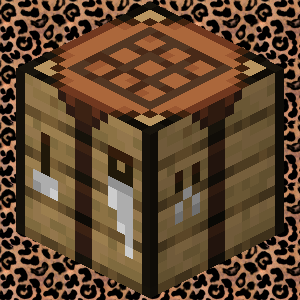
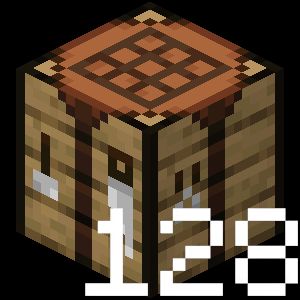
Implemented configuration functionality

Changed region(s): [[0.0, 0.0, 1.0, 1.0]]

diff --git a/src/client/java/org/apelsin/predictablecrafting/client/modmenu/ModMenuImplementation.java b/src/client/java/org/apelsin/predictablecrafting/client/modmenu/ModMenuImplementation.java
@@ -1,0 +1,55 @@
+package org.apelsin.predictablecrafting.client.modmenu;
+
+import com.terraformersmc.modmenu.api.ConfigScreenFactory;
+import com.terraformersmc.modmenu.api.ModMenuApi;
+import dev.isxander.yacl3.api.*;
+import dev.isxander.yacl3.api.controller.IntegerSliderControllerBuilder;
+import dev.isxander.yacl3.api.controller.TickBoxControllerBuilder;
+import net.minecraft.text.Text;
+import org.apelsin.predictablecrafting.config.ModConfig;
+
+public class ModMenuImplementation implements ModMenuApi {
+    @Override
+    public ConfigScreenFactory<?> getModConfigScreenFactory() {
+        return parentScreen -> YetAnotherConfigLib.create(ModConfig.HANDLER, (defaults, config, builder) -> builder
+                .title(Text.literal("Predictable Crafting Mod Settings"))
+                .category(ConfigCategory.createBuilder()
+                        .name(Text.literal("Predictable Crafting Mod Settings"))
+
+                        .option(Option.<Boolean>createBuilder()
+                                .name(Text.literal("Enable Mod"))
+                                .description(OptionDescription.of(Text.literal("Enable or disable the mod completely")))
+                                .binding(defaults.isModEnabled, () -> config.isModEnabled, val -> config.isModEnabled = val)
+                                .controller(TickBoxControllerBuilder::create)
+                                .build())
+
+                        .option(Option.<Boolean>createBuilder()
+                                .name(Text.literal("Show Actual Amount of Items"))
+                                .description(OptionDescription.of(Text.literal("Display the actual amount of items")))
+                                .binding(defaults.isTrueAmountEnabled, () -> config.isTrueAmountEnabled, val -> config.isTrueAmountEnabled = val)
+                                .controller(TickBoxControllerBuilder::create)
+                                .available(config.isModEnabled)
+                                .build())
+
+                        .option(Option.<Boolean>createBuilder()
+                                .name(Text.literal("Show Amount of Stacks"))
+                                .description(OptionDescription.of(Text.literal("Display the number of stacks")))
+                                .binding(defaults.isAmountOfStacksShown, () -> config.isAmountOfStacksShown, val -> config.isAmountOfStacksShown = val)
+                                .controller(TickBoxControllerBuilder::create)
+                                .available(config.isModEnabled && config.isTrueAmountEnabled)
+                                .build())
+
+                        .option(Option.<Integer>createBuilder()
+                                .name(Text.literal("Stacks Opacity"))
+                                .description(OptionDescription.of(Text.literal("Set the opacity of stack display (0-255)")))
+                                .binding(defaults.stacksOpacity, () -> config.stacksOpacity, val -> config.stacksOpacity = val)
+                                .controller(opt -> IntegerSliderControllerBuilder.create(opt)
+                                        .range(0, 255)
+                                        .step(1))
+                                .available(config.isModEnabled)
+                                .build())
+
+                        .build())
+        ).generateScreen(parentScreen);
+    }
+}

diff --git a/src/client/java/org/apelsin/predictablecrafting/client/mixins/DrawContextMixin.java b/src/client/java/org/apelsin/predictablecrafting/client/mixins/DrawContextMixin.java
@@ -5,9 +5,11 @@ import net.minecraft.client.MinecraftClient;
 import net.minecraft.client.font.TextRenderer;
 import net.minecraft.client.gui.DrawContext;
 import net.minecraft.item.ItemStack;
+import org.apelsin.predictablecrafting.config.ModConfig;
 import org.joml.Matrix3x2fStack;
 import org.jspecify.annotations.Nullable;
 import org.spongepowered.asm.mixin.Mixin;
+import org.spongepowered.asm.mixin.Unique;
 import org.spongepowered.asm.mixin.injection.At;
 import org.spongepowered.asm.mixin.injection.Inject;
 import org.spongepowered.asm.mixin.injection.callback.CallbackInfo;
@@ -15,17 +17,18 @@ import org.spongepowered.asm.mixin.injection.callback.CallbackInfo;
 
 @Mixin(DrawContext.class)
 public class DrawContextMixin {
-    @Inject(method = "drawStackCount", at = @At("HEAD"), cancellable = true)
+
+    @Unique
+    private ModConfig modConfig = ModConfig.get();
+
+    @Inject(method = "drawStackCount", at = @At("TAIL"), cancellable = true)
     private void customStackCount(TextRenderer textRenderer, ItemStack stack, int x, int y, @Nullable String stackCountText, CallbackInfo ci) {
+        if (!modConfig.isModEnabled) return;
         MinecraftClient minecraftClient = MinecraftClient.getInstance();
         if (stack.getCount() != 1 || stackCountText != null) {
-            String string = stackCountText == null ? String.valueOf(stack.getCount()) : stackCountText;
             DrawContext context = (DrawContext)(Object)this;
 
-            context.drawText(textRenderer, string, x + 19 - 2 - textRenderer.getWidth(string), y + 6 + 3, -1, true);
-
-
-            if (minecraftClient.isShiftPressed() && stack.getCount() > 64) {
+            if (minecraftClient.isShiftPressed() && stack.getCount() > 64 && modConfig.isAmountOfStacksShown) {
                 Matrix3x2fStack matrices = context.getMatrices();
                 matrices.pushMatrix();
 
@@ -36,7 +39,9 @@ public class DrawContextMixin {
                 int scaledX = (int)((x + 16) / scale) - textRenderer.getWidth(stacksString);
                 int scaledY = (int)((y + 1) / scale);
 
-                context.drawText(textRenderer, stacksString, scaledX, scaledY, 0xD0FFFFFF, true);
+                int colorCode = (modConfig.stacksOpacity << 24) | (0x00FFFFFF);
+
+                context.drawText(textRenderer, stacksString, scaledX, scaledY, colorCode, true);
 
                 matrices.popMatrix();
             }

diff --git a/src/main/java/org/apelsin/predictablecrafting/config/ModConfig.java b/src/main/java/org/apelsin/predictablecrafting/config/ModConfig.java
@@ -1,0 +1,40 @@
+package org.apelsin.predictablecrafting.config;
+
+import com.google.gson.GsonBuilder;
+import dev.isxander.yacl3.config.v2.api.ConfigClassHandler;
+import dev.isxander.yacl3.config.v2.api.SerialEntry;
+import dev.isxander.yacl3.config.v2.api.serializer.GsonConfigSerializerBuilder;
+import net.fabricmc.api.EnvType;
+import net.fabricmc.api.Environment;
+import net.fabricmc.loader.api.FabricLoader;
+import net.minecraft.util.Identifier;
+import org.apelsin.predictablecrafting.PredictableCrafting;
+
+@Environment(EnvType.CLIENT)
+public class ModConfig {
+    public static ConfigClassHandler<ModConfig> HANDLER = ConfigClassHandler.createBuilder(ModConfig.class)
+            .id(Identifier.of(PredictableCrafting.MOD_ID, "predictablecrafting"))
+            .serializer(config -> GsonConfigSerializerBuilder.create(config)
+                    .setPath(FabricLoader.getInstance().getConfigDir().resolve("predictablecrafting.json5"))
+                    .appendGsonBuilder(GsonBuilder::setPrettyPrinting)
+                    .setJson5(true)
+                    .build())
+            .build();
+
+    @SerialEntry
+    public boolean isModEnabled = true;
+
+    @SerialEntry
+    public boolean isTrueAmountEnabled = true;
+
+    @SerialEntry
+    public boolean isAmountOfStacksShown = true;
+
+    @SerialEntry
+    public int stacksOpacity = 208;
+
+    public static ModConfig get() {
+        return HANDLER.instance();
+    }
+
+}

diff --git a/src/client/java/org/apelsin/predictablecrafting/client/mixins/CraftingTableSlotMixin.java b/src/client/java/org/apelsin/predictablecrafting/client/mixins/CraftingTableSlotMixin.java
@@ -7,18 +7,22 @@ import net.minecraft.inventory.RecipeInputInventory;
 import net.minecraft.item.ItemStack;
 import net.minecraft.screen.slot.CraftingResultSlot;
 import net.minecraft.screen.slot.Slot;
+import org.apelsin.predictablecrafting.config.ModConfig;
 import org.apelsin.predictablecrafting.mixins.CraftingResultSlotAccessor;
 import org.spongepowered.asm.mixin.Mixin;
+import org.spongepowered.asm.mixin.Unique;
 import org.spongepowered.asm.mixin.injection.At;
 
 import org.spongepowered.asm.mixin.injection.Inject;
 import org.spongepowered.asm.mixin.injection.callback.CallbackInfoReturnable;
 
 
-
 @Environment(EnvType.CLIENT)
 @Mixin(Slot.class)
 public class CraftingTableSlotMixin {
+
+    @Unique
+    private ModConfig modConfig = ModConfig.get();
 
     @Inject(
             method = "getStack",
@@ -26,6 +30,8 @@ public class CraftingTableSlotMixin {
             cancellable = true
     )
     private void ShowMaximumCraftableAmount(CallbackInfoReturnable<ItemStack> cir){
+
+        if (!modConfig.isModEnabled || !modConfig.isTrueAmountEnabled) return;
 
         MinecraftClient minecraftClient = MinecraftClient.getInstance();
 

diff --git a/src/client/java/org/apelsin/predictablecrafting/client/PredictableCraftingClient.java b/src/client/java/org/apelsin/predictablecrafting/client/PredictableCraftingClient.java
@@ -1,15 +1,14 @@
 package org.apelsin.predictablecrafting.client;
 
 import net.fabricmc.api.ClientModInitializer;
-import org.slf4j.Logger;
-import org.slf4j.LoggerFactory;
+import org.apelsin.predictablecrafting.PredictableCrafting;
+
 
 public class PredictableCraftingClient implements ClientModInitializer {
-    public static final String MOD_ID = "testmod";
-    public static final Logger LOGGER = LoggerFactory.getLogger(MOD_ID);
+
 
     @Override
     public void onInitializeClient() {
-        LOGGER.info("PredictableCrafting initialized!");
+        PredictableCrafting.LOGGER.info("PredictableCrafting initialized!");
     }
 }

diff --git a/src/main/java/org/apelsin/predictablecrafting/PredictableCrafting.java b/src/main/java/org/apelsin/predictablecrafting/PredictableCrafting.java
@@ -1,12 +1,16 @@
 package org.apelsin.predictablecrafting;
 
 import net.fabricmc.api.ModInitializer;
+import org.apelsin.predictablecrafting.config.ModConfig;
+import org.slf4j.Logger;
+import org.slf4j.LoggerFactory;
 
 public class PredictableCrafting implements ModInitializer {
-
+    public static final String MOD_ID = "predictablecrafting";
+    public static final Logger LOGGER = LoggerFactory.getLogger(MOD_ID);
     @Override
     public void onInitialize() {
-
+        ModConfig.HANDLER.load();
 
     }
 }
